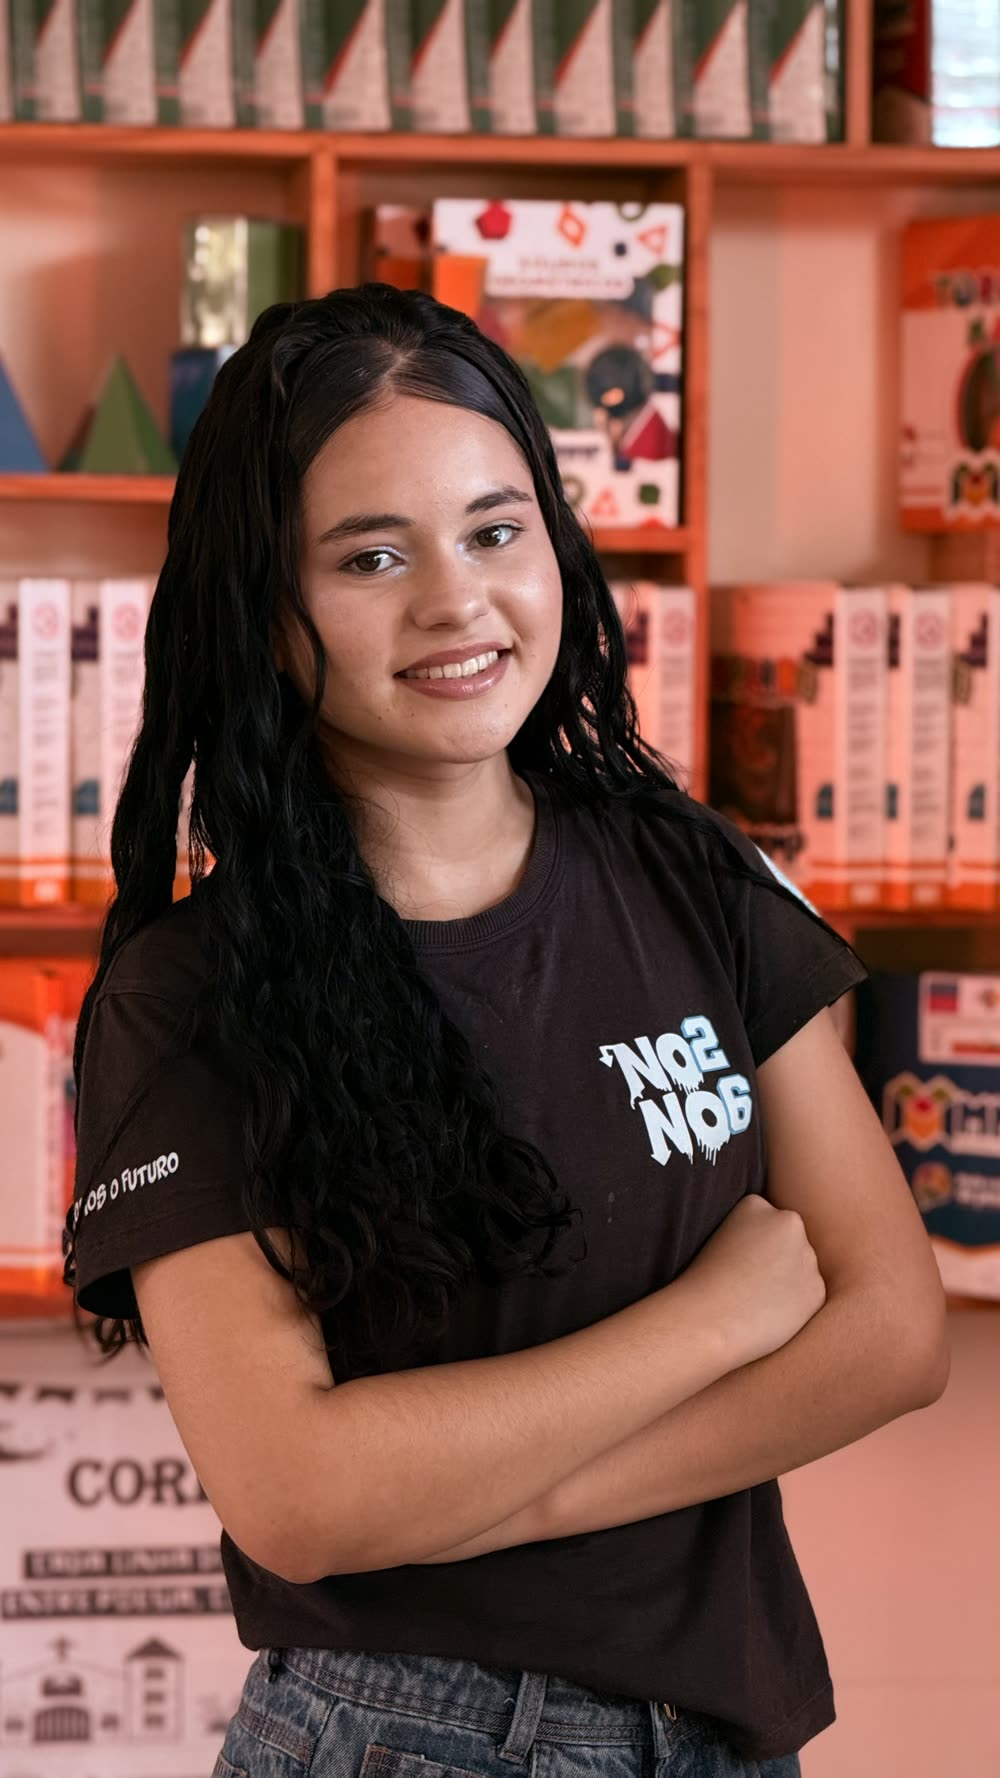
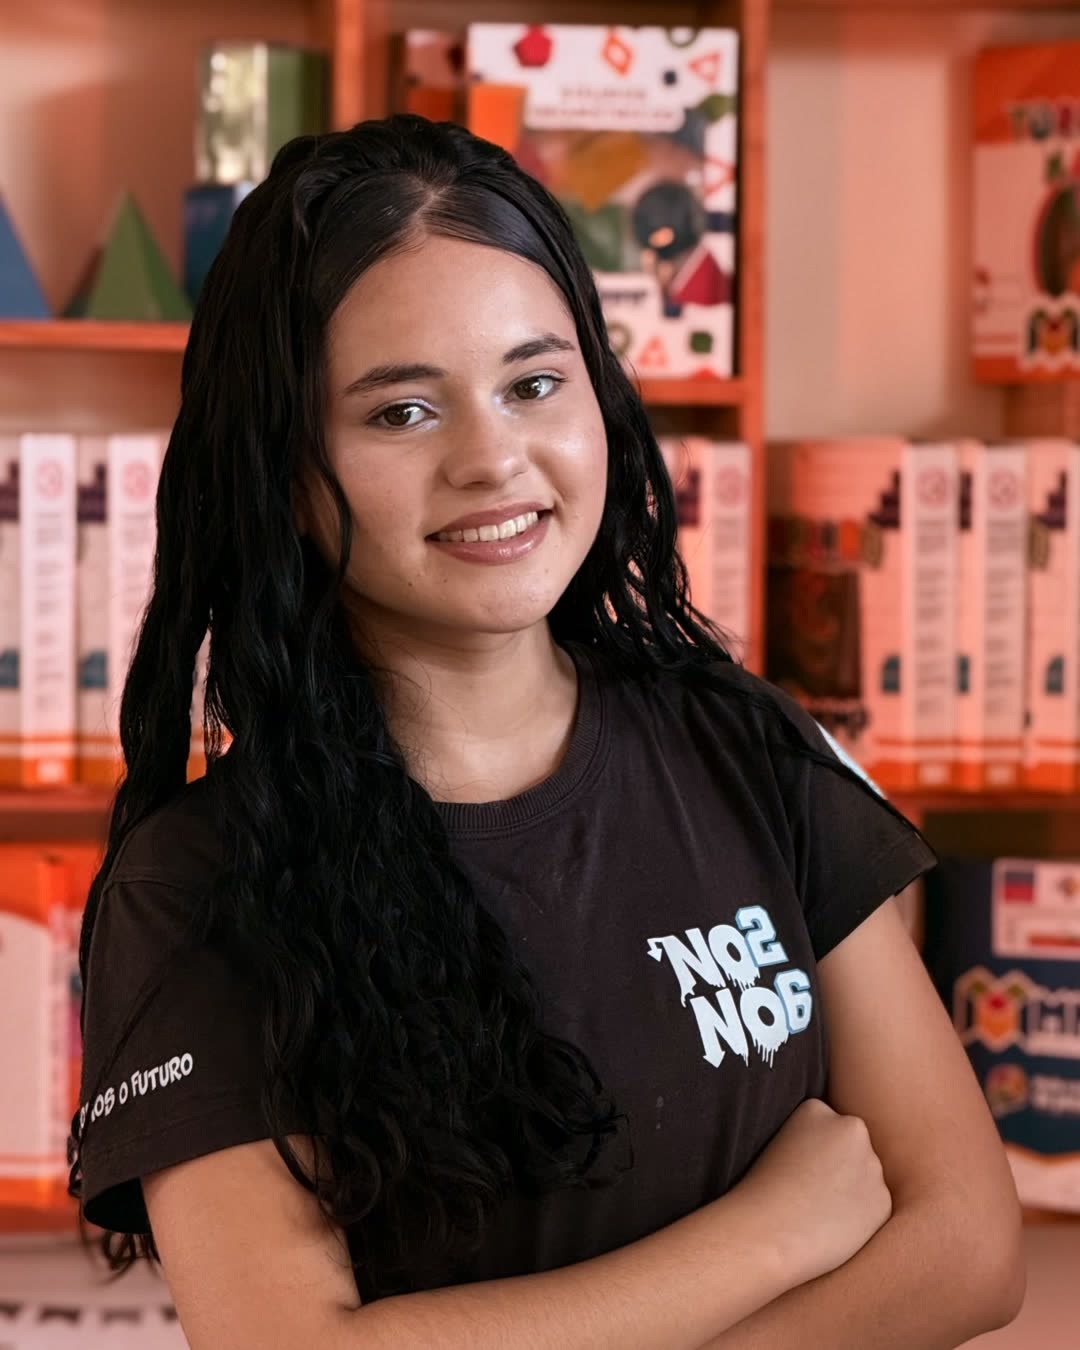
Crop Fotografia gallery photos to 4:5

diff --git a/index.html b/index.html
@@ -579,7 +579,7 @@
           </div>
           <div class="col-md-4 gallery-item ftco-animate" data-cat="fotografia">
             <div class="model img d-flex align-items-end">
-            	<img class="model-img" src="images/foto-2.jpg" alt="Chá Revelação — Fotografia | PollyMaker, Tuparetama-PE" width="1000" height="1778" loading="lazy" decoding="async">
+            	<img class="model-img" src="images/foto-2.jpg" alt="Chá Revelação — Fotografia | PollyMaker, Tuparetama-PE" width="1080" height="1350" loading="lazy" decoding="async">
             	<a href="images/foto-2.jpg" class="icon image-popup d-flex justify-content-center align-items-center">
 	    					<span class="icon-expand"></span>
 	    				</a>
@@ -593,7 +593,7 @@
           </div>
           <div class="col-md-4 gallery-item ftco-animate" data-cat="fotografia">
             <div class="model img d-flex align-items-end">
-            	<img class="model-img" src="images/foto-3.jpg" alt="Ensaio de Produto — Fotografia | PollyMaker, Tuparetama-PE" width="1000" height="1334" loading="lazy" decoding="async">
+            	<img class="model-img" src="images/foto-3.jpg" alt="Ensaio de Produto — Fotografia | PollyMaker, Tuparetama-PE" width="1080" height="1350" loading="lazy" decoding="async">
             	<a href="images/foto-3.jpg" class="icon image-popup d-flex justify-content-center align-items-center">
 	    					<span class="icon-expand"></span>
 	    				</a>
@@ -607,7 +607,7 @@
           </div>
           <div class="col-md-4 gallery-item ftco-animate" data-cat="fotografia">
             <div class="model img d-flex align-items-end">
-            	<img class="model-img" src="images/foto-4.jpg" alt="Esporte na Areia — Fotografia | PollyMaker, Tuparetama-PE" width="1000" height="1778" loading="lazy" decoding="async">
+            	<img class="model-img" src="images/foto-4.jpg" alt="Esporte na Areia — Fotografia | PollyMaker, Tuparetama-PE" width="1080" height="1350" loading="lazy" decoding="async">
             	<a href="images/foto-4.jpg" class="icon image-popup d-flex justify-content-center align-items-center">
 	    					<span class="icon-expand"></span>
 	    				</a>
@@ -621,7 +621,7 @@
           </div>
           <div class="col-md-4 gallery-item ftco-animate" data-cat="fotografia">
             <div class="model img d-flex align-items-end">
-            	<img class="model-img" src="images/foto-5.jpg" alt="Esporte na Areia — Fotografia | PollyMaker, Tuparetama-PE" width="1000" height="1778" loading="lazy" decoding="async">
+            	<img class="model-img" src="images/foto-5.jpg" alt="Esporte na Areia — Fotografia | PollyMaker, Tuparetama-PE" width="1080" height="1350" loading="lazy" decoding="async">
             	<a href="images/foto-5.jpg" class="icon image-popup d-flex justify-content-center align-items-center">
 	    					<span class="icon-expand"></span>
 	    				</a>
@@ -635,7 +635,7 @@
           </div>
           <div class="col-md-4 gallery-item ftco-animate" data-cat="fotografia">
             <div class="model img d-flex align-items-end">
-            	<img class="model-img" src="images/foto-6.jpg" alt="Batizado — Fotografia | PollyMaker, Tuparetama-PE" width="1000" height="1778" loading="lazy" decoding="async">
+            	<img class="model-img" src="images/foto-6.jpg" alt="Batizado — Fotografia | PollyMaker, Tuparetama-PE" width="1080" height="1350" loading="lazy" decoding="async">
             	<a href="images/foto-6.jpg" class="icon image-popup d-flex justify-content-center align-items-center">
 	    					<span class="icon-expand"></span>
 	    				</a>
@@ -649,7 +649,7 @@
           </div>
           <div class="col-md-4 gallery-item ftco-animate" data-cat="fotografia">
             <div class="model img d-flex align-items-end">
-            	<img class="model-img" src="images/foto-7.jpg" alt="Ensaio Gestante — Fotografia | PollyMaker, Tuparetama-PE" width="1000" height="1778" loading="lazy" decoding="async">
+            	<img class="model-img" src="images/foto-7.jpg" alt="Ensaio Gestante — Fotografia | PollyMaker, Tuparetama-PE" width="1080" height="1350" loading="lazy" decoding="async">
             	<a href="images/foto-7.jpg" class="icon image-popup d-flex justify-content-center align-items-center">
 	    					<span class="icon-expand"></span>
 	    				</a>
@@ -663,7 +663,7 @@
           </div>
           <div class="col-md-4 gallery-item ftco-animate" data-cat="fotografia">
             <div class="model img d-flex align-items-end">
-            	<img class="model-img" src="images/foto-8.jpg" alt="Ensaio Gestante — Fotografia | PollyMaker, Tuparetama-PE" width="1000" height="1778" loading="lazy" decoding="async">
+            	<img class="model-img" src="images/foto-8.jpg" alt="Ensaio Gestante — Fotografia | PollyMaker, Tuparetama-PE" width="1080" height="1350" loading="lazy" decoding="async">
             	<a href="images/foto-8.jpg" class="icon image-popup d-flex justify-content-center align-items-center">
 	    					<span class="icon-expand"></span>
 	    				</a>
@@ -677,7 +677,7 @@
           </div>
           <div class="col-md-4 gallery-item ftco-animate" data-cat="fotografia">
             <div class="model img d-flex align-items-end">
-            	<img class="model-img" src="images/foto-9.jpg" alt="Chá Revelação — Fotografia | PollyMaker, Tuparetama-PE" width="1000" height="1778" loading="lazy" decoding="async">
+            	<img class="model-img" src="images/foto-9.jpg" alt="Chá Revelação — Fotografia | PollyMaker, Tuparetama-PE" width="1080" height="1350" loading="lazy" decoding="async">
             	<a href="images/foto-9.jpg" class="icon image-popup d-flex justify-content-center align-items-center">
 	    					<span class="icon-expand"></span>
 	    				</a>
@@ -691,7 +691,7 @@
           </div>
           <div class="col-md-4 gallery-item ftco-animate" data-cat="fotografia">
             <div class="model img d-flex align-items-end">
-            	<img class="model-img" src="images/foto-10.jpg" alt="Retratos de Equipe — Fotografia | PollyMaker, Tuparetama-PE" width="1000" height="1778" loading="lazy" decoding="async">
+            	<img class="model-img" src="images/foto-10.jpg" alt="Retratos de Equipe — Fotografia | PollyMaker, Tuparetama-PE" width="1080" height="1350" loading="lazy" decoding="async">
             	<a href="images/foto-10.jpg" class="icon image-popup d-flex justify-content-center align-items-center">
 	    					<span class="icon-expand"></span>
 	    				</a>
@@ -719,7 +719,7 @@
           </div>
           <div class="col-md-4 gallery-item ftco-animate" data-cat="fotografia">
             <div class="model img d-flex align-items-end">
-            	<img class="model-img" src="images/foto-12.jpg" alt="Retratos de Equipe — Fotografia | PollyMaker, Tuparetama-PE" width="1000" height="1778" loading="lazy" decoding="async">
+            	<img class="model-img" src="images/foto-12.jpg" alt="Retratos de Equipe — Fotografia | PollyMaker, Tuparetama-PE" width="1080" height="1350" loading="lazy" decoding="async">
             	<a href="images/foto-12.jpg" class="icon image-popup d-flex justify-content-center align-items-center">
 	    					<span class="icon-expand"></span>
 	    				</a>
@@ -733,7 +733,7 @@
           </div>
           <div class="col-md-4 gallery-item ftco-animate" data-cat="fotografia">
             <div class="model img d-flex align-items-end">
-            	<img class="model-img" src="images/foto-13.jpg" alt="Retratos de Equipe — Fotografia | PollyMaker, Tuparetama-PE" width="1000" height="1778" loading="lazy" decoding="async">
+            	<img class="model-img" src="images/foto-13.jpg" alt="Retratos de Equipe — Fotografia | PollyMaker, Tuparetama-PE" width="1080" height="1350" loading="lazy" decoding="async">
             	<a href="images/foto-13.jpg" class="icon image-popup d-flex justify-content-center align-items-center">
 	    					<span class="icon-expand"></span>
 	    				</a>
@@ -747,7 +747,7 @@
           </div>
           <div class="col-md-4 gallery-item ftco-animate" data-cat="fotografia">
             <div class="model img d-flex align-items-end">
-            	<img class="model-img" src="images/foto-14.jpg" alt="Retratos de Equipe — Fotografia | PollyMaker, Tuparetama-PE" width="1000" height="1778" loading="lazy" decoding="async">
+            	<img class="model-img" src="images/foto-14.jpg" alt="Retratos de Equipe — Fotografia | PollyMaker, Tuparetama-PE" width="1080" height="1350" loading="lazy" decoding="async">
             	<a href="images/foto-14.jpg" class="icon image-popup d-flex justify-content-center align-items-center">
 	    					<span class="icon-expand"></span>
 	    				</a>
